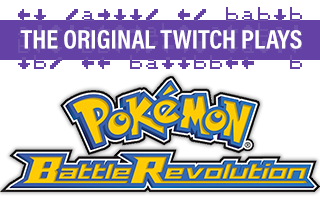
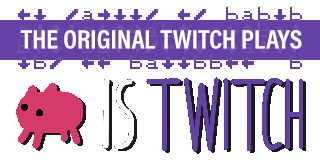
updates for baba is you

diff --git a/description/active/pbr/01 Header.md b/description/active/pbr/01 Header.md
@@ -1,11 +1,25 @@
-In Twitch Plays Pokemon (TPP), you can bet on and influence matches of **Pokemon Battle Revolution** (PBR) in chat!
+In Twitch Plays Pokémon (TPP), you can submit commands through the chat box and control the current Intermission of **Baba Is You**!
 
-You have two currencies:
+**Credits for this Intermission go to:**
+- [Hempuli](https://twitter.com/ESAdevlog) - *Baba Is You* Creator
+- M4_used_rollout - Overlay
+- boombafunk - Intermission Tester
+- nowwhat - *Baba Is Twitch* Logo
+- evolem - Description, Header Logo
 
-**Pokéyen** - virtual currency, used to bet on Pokémon matches
+## Commands
+- *up, down, left, right*
+- *a* (enter levels) *b* (wait)
+- *undo, restart, start*
 
-**Tokens** - virtual currency, based on stream donations, subscriptions and give-aways.
+**Democracy**:
+- *restart* and *start* are only available in Democracy
+- *Democracy* is activated by 50% of votes
+- You can input multiple commands in Democracy in a single input. For example, *downlefta* would input the commands *down, left,* then *a.*
 
-PBR has four main phases: **Betting Phase, Match Phase, Results Phase** and **Sidegame**
+**Tips**:
+- Commands are not case sensitive - you can mix it up! For example, *sEleCt* will have the same effect as *select*.
+- You can also use compass directions in replacement of regular directions: *n, e, s, w*
+- Just want to farm experience to level up (*/w tpp level*)? Use: *exp, xp,* or *p*
 
-TPP collects and uses some of your data so you can play.  Find out what data we collect, how we collect it and what we use it for by reading [our privacy statement](https://github.com/TwitchPlaysPokemon/tpp-streamdocs/blob/master/privacy/privacy-statement.md).
+***Note:** TPP collects and uses some of your data so you can play. Find out what data we collect, how we collect it, and what we use it for by reading our privacy statement [here](https://github.com/TwitchPlaysPokemon/tpp-streamdocs/blob/master/privacy/privacy-statement.md).

diff --git a/description/active/pbr/05 Seasons.md b/description/active/pbr/05 Seasons.md
@@ -1,15 +1,5 @@
-See who's the very best! Do well in a season to be rewarded!
-
-* All balances are reset to P1,000 for each new season.
-* Have more than P2,000 in the final leaderboard to get rewards.
-* The more Pokéyen you have, the better the rewards.
-* Rewards are stored in your inventory.
-* After rewards are given out, a new season will begin.
-
-[**See the leaderboards for every season here.**](https://twitchplayspokemon.tv/leaderboard)
-*****
 ## Current Season
 
-The current PBR season is the **27th** season. This season, every match has the hidden bets gimmick: all bets are hidden until the 30 second mark. Whisper betting is allowed, but not forced. Bet bonuses are based on bet, and are around 50% more than during the [Mini-Season 2](https://www.reddit.com/r/twitchplayspokemon/comments/awc3ja/miniseason_2_nerfed_bet_bonuses/) of the [Season of Seasons](https://www.reddit.com/r/twitchplayspokemon/comments/atnkd6/the_seasons_of_seasons_schedule_update_on/).
+The current PBR season is the **Baba is You** Season! This is a short intermission before the 28th Season of PBR.
 
 [**See the current schedule for this session of seasons here.**](https://www.reddit.com/r/twitchplayspokemon/comments/bhchph/season_schedule_the_tests_strike_back/)

diff --git a/description/inactive/05 Seasons.md b/description/inactive/05 Seasons.md
@@ -1,0 +1,15 @@
+See who's the very best! Do well in a season to be rewarded!
+
+* All balances are reset to P1,000 for each new season.
+* Have more than P2,000 in the final leaderboard to get rewards.
+* The more Pokéyen you have, the better the rewards.
+* Rewards are stored in your inventory.
+* After rewards are given out, a new season will begin.
+
+[**See the leaderboards for every season here.**](https://twitchplayspokemon.tv/leaderboard)
+*****
+## Current Season
+
+The current PBR season is the **Baba is You** Season! This is a short intermission before the 28th Season of PBR. 
+
+[**See the current schedule for this session of seasons here.**](https://www.reddit.com/r/twitchplayspokemon/comments/bhchph/season_schedule_the_tests_strike_back/)

diff --git a/description/active/runs/01 Header.md b/description/active/runs/01 Header.md
@@ -7,4 +7,4 @@ In Twitch Plays Pokémon (TPP), you can submit commands through the chat box and
 - nowwhat - Intermission (Digimon World: Dawn) Tester
 - evolem - Description, Header Logo Finalization
 
-***Note:** TPP collects and uses some of your data so you can play.  Find out what data we collect, how we collect it, and what we use it for by reading our privacy statement [here](https://github.com/TwitchPlaysPokemon/tpp-streamdocs/blob/master/privacy/privacy-statement.md).*
+***Note:** TPP collects and uses some of your data so you can play. Find out what data we collect, how we collect it, and what we use it for by reading our privacy statement [here](https://github.com/TwitchPlaysPokemon/tpp-streamdocs/blob/master/privacy/privacy-statement.md).*

diff --git a/description/inactive/01 Header.md b/description/inactive/01 Header.md
@@ -1,0 +1,11 @@
+In Twitch Plays Pokémon (TPP), you can bet on and influence matches of **Pokémon Battle Revolution** (PBR) in chat!
+
+You have two currencies:
+
+**Pokéyen** - virtual currency, used to bet on Pokémon matches
+
+**Tokens** - virtual currency, based on stream donations, subscriptions and give-aways.
+
+PBR has four main phases: **Betting Phase, Match Phase, Results Phase** and **Sidegame**
+
+***Note:** TPP collects and uses some of your data so you can play. Find out what data we collect, how we collect it, and what we use it for by reading our privacy statement [here](https://github.com/TwitchPlaysPokemon/tpp-streamdocs/blob/master/privacy/privacy-statement.md).*
